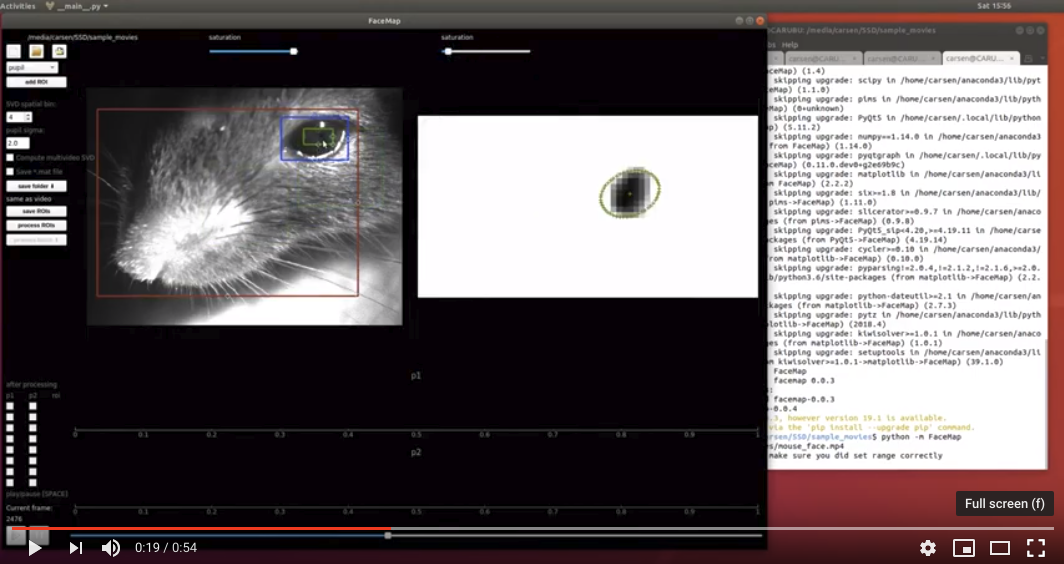
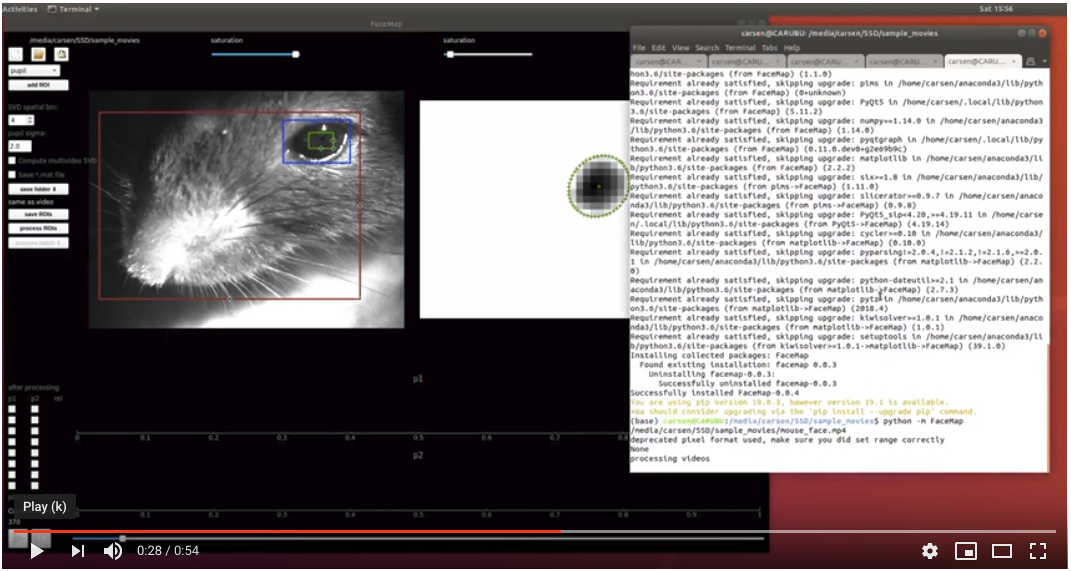
elliptical pupil + corneal reflection correction!

Changed region(s): [[0.0, 0.0, 1.0, 1.0], [0.093, 0.1809, 0.1861, 0.211]]

diff --git a/FaceMap/roi.py b/FaceMap/roi.py
@@ -14,6 +14,111 @@ from matplotlib import cm
 
 colors = np.array([[0,200,50],[180,0,50],[40,100,250],[150,50,150]])
 
+class reflectROI():
+    def __init__(self, iROI, wROI, moveable=True,
+                 parent=None, pos=None,
+                 yrange=None, xrange=None, ellipse=None):
+        # which ROI it belongs to
+        self.iROI = iROI
+        self.wROI = wROI # can have many reflections
+        self.color = (0.0,0.0,0.0)
+        self.moveable = moveable
+        if pos is None:
+            view = parent.pROI.viewRange()
+            imx = (view[0][1] + view[0][0]) / 2
+            imy = (view[1][1] + view[1][0]) / 2
+            dx = (view[0][1] - view[0][0]) / 4
+            dy = (view[1][1] - view[1][0]) / 4
+            dx = np.minimum(dx, parent.Ly[0]*0.4)
+            dy = np.minimum(dy, parent.Lx[0]*0.4)
+            imx = imx - dx / 2
+            imy = imy - dy / 2
+        else:
+            imy = pos[0]
+            imx = pos[1]
+            dy = pos[2]
+            dx = pos[3]
+            self.yrange=yrange
+            self.xrange=xrange
+            self.ellipse=ellipse
+        self.ivid = parent.ROIs[self.iROI].ivid
+        self.draw(parent, imy, imx, dy, dx)
+        self.ROI.sigRegionChangeFinished.connect(lambda: self.position(parent))
+        self.ROI.sigClicked.connect(lambda: self.position(parent))
+        self.ROI.sigRemoveRequested.connect(lambda: self.remove(parent))
+        #self.position(parent)
+
+    def draw(self, parent, imy, imx, dy, dx):
+        roipen = pg.mkPen(self.color, width=3,
+                          style=QtCore.Qt.SolidLine)
+        self.ROI = pg.EllipseROI(
+            [imx, imy], [dx, dy], movable = self.moveable,
+            pen=roipen, removable=self.moveable
+        )
+        self.ROI.handleSize = 8
+        self.ROI.handlePen = roipen
+        self.ROI.addScaleHandle([1, 0.5], [0., 0.5])
+        self.ROI.addScaleHandle([0.5, 0], [0.5, 1])
+        self.ROI.setAcceptedMouseButtons(QtCore.Qt.LeftButton)
+        parent.pROI.addItem(self.ROI)
+
+    def remove(self, parent):
+        parent.pROI.removeItem(self.ROI)
+        for i in range(len(parent.rROI[self.iROI])):
+            if i > self.wROI:
+                parent.rROI[i].wROI -= 1
+        del parent.rROI[self.iROI][self.wROI]
+        parent.win.show()
+        parent.show()
+
+    def position(self, parent):
+        parent.iROI = self.iROI
+        pos0 = self.ROI.getSceneHandlePositions()
+        pos = parent.pROI.mapSceneToView(pos0[0][1])
+        posy = pos.y()
+        posx = pos.x()
+        sizex, sizey = self.ROI.size()
+        xrange = (np.arange(-1 * int(sizex), 1) + int(posx)).astype(np.int32)
+        yrange = (np.arange(-1 * int(sizey), 1) + int(posy)).astype(np.int32)
+        yrange += int(sizey/2)
+        # what is ellipse circling?
+        br = self.ROI.boundingRect()
+        ellipse = np.zeros((yrange.size, xrange.size), np.bool)
+        x,y = np.meshgrid(np.arange(0,xrange.size,1), np.arange(0,yrange.size,1))
+        ellipse = ((y - br.center().y())**2 / (br.height()/2)**2 +
+                    (x - br.center().x())**2 / (br.width()/2)**2) <= 1
+
+        ellipse = ellipse[:,np.logical_and(xrange >= 0, xrange < parent.ROIs[self.iROI].xrange.size)]
+        xrange = xrange[np.logical_and(xrange >= 0, xrange < parent.ROIs[self.iROI].xrange.size)]
+        ellipse = ellipse[np.logical_and(yrange >= 0, yrange < parent.ROIs[self.iROI].yrange.size), :]
+        yrange = yrange[np.logical_and(yrange >= 0, yrange < parent.ROIs[self.iROI].yrange.size)]
+
+        # ellipse = lambda x,y: (((x+0.5)/(w/2.)-1)**2+ ((y+0.5)/(h/2.)-1)**2)**0.5 < 1, (w, h))
+        self.ellipse = ellipse
+        self.xrange = xrange
+        self.yrange = yrange
+
+        parent.reflectors[self.iROI] = get_reflector(parent.ROIs[self.iROI].yrange,
+                                                     parent.ROIs[self.iROI].xrange,
+                                                     parent.rROI[self.iROI])
+
+        parent.sl[1].setValue(parent.saturation[self.iROI] * 100 / 255)
+        parent.ROIs[self.iROI].plot(parent)
+
+def get_reflector(yrange, xrange, rROI):
+    reflectors = np.zeros((yrange.size, xrange.size), np.bool)
+    if len(rROI)>0:
+        for r in rROI:
+            ellipse, ryrange, rxrange = r.ellipse.copy(), r.yrange.copy(), r.xrange.copy()
+            ix = np.logical_and(rxrange >= 0, rxrange < xrange.size)
+            ellipse = ellipse[:,ix]
+            rxrange = rxrange[ix]
+            iy = np.logical_and(ryrange >= 0, ryrange < yrange.size)
+            ellipse = ellipse[iy,:]
+            ryrange = ryrange[iy]
+            reflectors[np.ix_(ryrange, rxrange)] = np.logical_or(reflectors[np.ix_(ryrange, rxrange)], ellipse)
+    return reflectors
+
 class sROI():
     def __init__(self, rind, rtype, iROI, moveable=True,
                  parent=None, saturation=None, color=None, pos=None,
@@ -64,10 +169,16 @@ class sROI():
     def draw(self, parent, imy, imx, dy, dx):
         roipen = pg.mkPen(self.color, width=3,
                           style=QtCore.Qt.SolidLine)
-        self.ROI = pg.RectROI(
-            [imx, imy], [dx, dy], movable = self.moveable,
-            pen=roipen, sideScalers=True, removable=self.moveable
-        )
+        if self.rind==1 or self.rind==3:
+            self.ROI = pg.RectROI(
+                [imx, imy], [dx, dy], movable = self.moveable,
+                pen=roipen, sideScalers=True, removable=self.moveable
+            )
+        else:
+            self.ROI = pg.EllipseROI(
+                [imx, imy], [dx, dy], movable = self.moveable,
+                pen=roipen, removable=self.moveable
+            )
         self.ROI.handleSize = 8
         self.ROI.handlePen = roipen
         self.ROI.addScaleHandle([1, 0.5], [0., 0.5])
@@ -76,7 +187,15 @@ class sROI():
         parent.p0.addItem(self.ROI)
 
     def position(self, parent):
-        parent.iROI = self.iROI
+        if parent.iROI != self.iROI:
+            if self.rind==0:
+                print('change to pupil')
+                for i in range(len(parent.rROI[self.iROI])):
+                    parent.pROI.addItem(parent.rROI[self.iROI][i].ROI)
+            elif parent.ROIs[parent.iROI].rind==0:
+                for i in range(len(parent.rROI[parent.iROI])):
+                    parent.pROI.removeItem(parent.rROI[parent.iROI][i].ROI)
+            parent.iROI = self.iROI
         pos0 = self.ROI.getSceneHandlePositions()
         pos = parent.p0.mapSceneToView(pos0[0][1])
         posy = pos.y()
@@ -84,11 +203,21 @@ class sROI():
         sizex, sizey = self.ROI.size()
         xrange = (np.arange(-1 * int(sizex), 1) + int(posx)).astype(np.int32)
         yrange = (np.arange(-1 * int(sizey), 1) + int(posy)).astype(np.int32)
-        xrange = xrange[xrange >= 0]
-        xrange = xrange[xrange < parent.LX]
-        yrange = yrange[yrange >= 0]
-        yrange = yrange[yrange < parent.LY]
+        if self.rind==0 or self.rind==2:
+            yrange += int(sizey/2)
+        # what is ellipse circling?
+        br = self.ROI.boundingRect()
+        ellipse = np.zeros((yrange.size, xrange.size), np.bool)
+        x,y = np.meshgrid(np.arange(0,xrange.size,1), np.arange(0,yrange.size,1))
+        ellipse = ((y - br.center().y())**2 / (br.height()/2)**2 +
+                    (x - br.center().x())**2 / (br.width()/2)**2) <= 1
 
+        ellipse = ellipse[:,np.logical_and(xrange >= 0, xrange < parent.LX)]
+        xrange = xrange[np.logical_and(xrange >= 0, xrange < parent.LX)]
+        ellipse = ellipse[np.logical_and(yrange >= 0, yrange < parent.LY), :]
+        yrange = yrange[np.logical_and(yrange >= 0, yrange < parent.LY)]
+
+        # ellipse = lambda x,y: (((x+0.5)/(w/2.)-1)**2+ ((y+0.5)/(h/2.)-1)**2)**0.5 < 1, (w, h))
         # which movie is this ROI in?
         vvals = parent.vmap[np.ix_(yrange, xrange)]
         ivid = np.zeros((len(parent.Ly),))
@@ -96,10 +225,13 @@ class sROI():
             ivid[i] = (vvals==i).sum()
         ivid = np.argmax(ivid)
         # crop yrange and xrange
-        xrange = xrange[xrange>=parent.sx[ivid]]
-        xrange = xrange[xrange<parent.sx[ivid]+parent.Lx[ivid]]
-        yrange = yrange[yrange>=parent.sy[ivid]]
-        yrange = yrange[yrange<parent.sy[ivid]+parent.Ly[ivid]]
+        ix = np.logical_and(xrange>=parent.sx[ivid], xrange<parent.sx[ivid]+parent.Lx[ivid])
+        ellipse = ellipse[:, ix]
+        xrange = xrange[ix]
+        iy = np.logical_and(yrange>=parent.sy[ivid], yrange<parent.sy[ivid]+parent.Ly[ivid])
+        yrange = yrange[iy]
+        ellipse = ellipse[iy, :]
+        self.ellipse = ellipse
 
         xrange -= parent.sx[ivid]
         yrange -= parent.sy[ivid]
@@ -107,6 +239,14 @@ class sROI():
         self.yrange = yrange
         self.ivid   = ivid
 
+        if self.rind==0:
+            #ifr = np.array(parent.video[0][ivid][:50])
+            #ifr = ifr.mean(axis=-1)
+            #self.rmin = ifr[np.ix_(np.arange(0,ifr.shape[0],1,int), self.yrange, self.xrange)].min()
+            self.rmin = 0
+            parent.reflectors[self.iROI] = get_reflector(parent.ROIs[self.iROI].yrange,
+                                                         parent.ROIs[self.iROI].xrange,
+                                                         parent.rROI[self.iROI])
         parent.sl[1].setValue(parent.saturation[self.iROI] * 100 / 255)
         self.plot(parent)
 
@@ -118,6 +258,7 @@ class sROI():
                 parent.saturation[i] = parent.saturation[i-1]
         del parent.ROIs[self.iROI]
         del parent.saturation[self.iROI]
+        del parent.rROI[self.iROI]
         if parent.iROI>=len(parent.ROIs):
             parent.iROI -= 1
         parent.iROI = max(0, parent.iROI)
@@ -137,16 +278,21 @@ class sROI():
         self.saturation = sat
 
         self.pupil_sigma = parent.pupil_sigma
-
+        #parent.pROI.addItem(pg.ScatterPlotItem([self.center[0]], [self.center[1]], pen='r', symbol='+'))
+        parent.reflector.setEnabled(False)
         if self.rind==0:
+            parent.reflector.setEnabled(True)
             img = img.mean(axis=-1)
-            try:
+            if 1:
                 # smooth in space
                 fr = gaussian_filter(img.astype(np.float32), 1)
-                fr -= fr.min()
+                fr -= self.rmin
+                fr[~self.ellipse] = 255.0
                 fr = 255.0 - fr
                 fr = np.maximum(0, fr - (255.0-sat))
-                mu, sig, xy = pupil.fit_gaussian(fr, parent.pupil_sigma, True)
+                missing=parent.reflectors[self.iROI].nonzero()
+                mu, sig, xy, immiss = pupil.fit_gaussian(fr.copy(), parent.pupil_sigma, True, missing=missing)
+                fr[missing[0], missing[1]] = immiss
                 xy = xy[xy[:,0]>=0, :]
                 xy = xy[xy[:,0]<self.yrange.size, :]
                 xy = xy[xy[:,1]>=0, :]
@@ -159,7 +305,8 @@ class sROI():
                 parent.pROI.addItem(parent.scatter)
                 parent.pROIimg.setImage(255-fr)
                 parent.pROIimg.setLevels([255-sat, 255])
-            except:
+            if 0:
+                print('error')
                 parent.pROI.removeItem(parent.scatter)
                 parent.scatter = pg.ScatterPlotItem([0], [0], pen='k', symbol='+')
                 parent.pROI.addItem(parent.scatter)

diff --git a/FaceMap/pupil.py b/FaceMap/pupil.py
@@ -1,12 +1,58 @@
 import numpy as np
 from scipy.ndimage import gaussian_filter1d
 
-def fit_gaussian(im, thres, do_xy):
+def fit_gaussian(im, thres, do_xy, missing=None):
     ''' iterative fitting of pupil with gaussian @ sigma=thres '''
     ix,iy = im.nonzero()
-    lam0 = im[ix, iy]
+    if missing is not None:
+        mx = missing[0]
+        my = missing[1]
+        miss = np.isin(ix*im.shape[1] + iy, mx*im.shape[1] + my)
+        miss = miss.flatten()
+    else:
+        miss = np.zeros((ix.size,), np.bool)
+    ix = ix[~miss].flatten()
+    iy = iy[~miss].flatten()
+    lam0 = im[ix,iy].copy()
+    immed0 = np.median(lam0)
     lam = lam0.copy()
+    ix0 = ix.copy()
+    iy0 = iy.copy()
+    lam /= lam.sum()
+    mu = [(lam*ix).sum(), (lam*iy).sum()]
+    xdist = ix - mu[0]
+    ydist = iy - mu[1]
+    xydist = np.concatenate((xdist[:,np.newaxis], ydist[:,np.newaxis]), axis=1)
+    xy = xydist * lam[:,np.newaxis]**0.5
+    sigxy = xy.T @ xy
     for k in range(5):
+        # fill in NaN's
+        dd = ((xydist @ np.linalg.inv(sigxy)) * xydist).sum(axis=1)
+        dd=dd.flatten()
+        glam = dd[:ix0.size] <= 2*thres**2
+        lam0[~glam] = 0
+        glam = dd[:ix0.size] <= thres**2
+        immed0 = np.median(lam0[glam])
+        lam = lam0.copy()
+        #print(immed0, mu, sigxy)
+
+        if missing is not None:
+            xdist = mx - mu[0]
+            ydist = my - mu[1]
+            mxy = np.concatenate((xdist[:,np.newaxis], ydist[:,np.newaxis]), axis=1)
+            dd = ((mxy @ np.linalg.inv(sigxy)) * mxy).sum(axis=1)
+            # within thres?
+            #im[mx,my] = np.exp(-dd) * 2 * immed0
+            ithr = dd <= 1.15 * thres**2
+            im[mx[ithr], my[ithr]] = immed0 * 1 #* np.exp(-dd[ithr]) / np.exp(-dd[ithr]).mean()
+            im[mx[~ithr], my[~ithr]] = 0
+            ix = np.concatenate((ix0,mx), axis=0)
+            iy = np.concatenate((iy0,my), axis=0)
+            lamm = np.zeros((mx.size,),np.float32)
+            lamm[ithr] = immed0 * 1.1
+            #lamm = np.exp(-dd / 2) * immed0
+            lam = np.concatenate((lam0, lamm), axis=0)
+
         lam /= lam.sum()
         mu = [(lam*ix).sum(), (lam*iy).sum()]
         xdist = ix - mu[0]
@@ -14,9 +60,7 @@ def fit_gaussian(im, thres, do_xy):
         xydist = np.concatenate((xdist[:,np.newaxis], ydist[:,np.newaxis]), axis=1)
         xy = xydist * lam[:,np.newaxis]**0.5
         sigxy = xy.T @ xy
-        lam = lam0.copy()
-        dd = ((xydist @ np.linalg.inv(sigxy)) * xydist).sum(axis=1)
-        lam[dd > 2*thres**2] = 0
+
     mu = np.array(mu)
 
     sv, u = np.linalg.eig(thres**2 * sigxy)
@@ -35,7 +79,7 @@ def fit_gaussian(im, thres, do_xy):
         xy += mu
     else:
         xy = []
-    return mu, sv, xy
+    return mu, sv, xy, im[mx,my]
 
 def process(img, saturation, pupil_sigma):
     ''' get pupil by fitting 2D gaussian
@@ -48,7 +92,7 @@ def process(img, saturation, pupil_sigma):
     # smooth in space by 1 pixel
     img = gaussian_filter1d(gaussian_filter1d(img, 1, axis=0), 1, axis=1)
 
-    img -= img.min(axis=1).min(axis=0)[np.newaxis, np.newaxis, :]
+    #img -= img.min(axis=1).min(axis=0)[np.newaxis, np.newaxis, :]
     img = 255.0 - img
     img = np.maximum(0, img - (255.0 - saturation))
     nframes = img.shape[-1]

diff --git a/FaceMap/gui.py b/FaceMap/gui.py
@@ -195,6 +195,13 @@ class MainW(QtGui.QMainWindow):
             qlabel.setStyleSheet('color: white;')
             self.l0.addWidget(qlabel,0,6+5*j,1,1)
 
+        self.reflector = QtGui.QPushButton('add corneal reflection')
+        self.l0.addWidget(self.reflector, 1, 8+5*j, 1, 2)
+        self.reflector.setEnabled(False)
+        self.reflector.clicked.connect(self.add_reflectROI)
+        self.rROI=[]
+        self.reflectors=[]
+
         self.p1 = self.win.addPlot(name='plot1',row=1,col=0,colspan=2, title='p1')
         self.p1.setMouseEnabled(x=True,y=False)
         self.p1.setMenuEnabled(False)
@@ -432,6 +439,7 @@ class MainW(QtGui.QMainWindow):
         self.show()
         self.processed = False
         #self.load_movies([["/media/carsen/DATA2/grive/sample_movies/2016-09-29_11_M160907_MP028_eye.mj2"]])
+        self.load_movies([["/home/carsen/Downloads/2017-08-04_1_M170714_MP032_eye.mj2"]])
         #self.openProc("/media/carsen/DATA1/2016-09-29_11_M160907_MP028_eye_proc.npy")
         #self.openFile(["D:/cams5/mouse_face.mp4"])
         # if not a combined recording, automatically open binary
@@ -441,13 +449,22 @@ class MainW(QtGui.QMainWindow):
         if len(self.ROIs) > 0:
             self.ROIs[self.iROI].plot(self)
 
+    def add_reflectROI(self):
+        self.rROI[self.iROI].append(roi.reflectROI(iROI=self.iROI, wROI=len(self.rROI[self.iROI]), moveable=True, parent=self))
+
     def add_ROI(self):
         roitype = self.comboBox.currentIndex()
         roistr = self.comboBox.currentText()
         if roitype > 0:
             self.saturation.append(255.)
+            if len(self.ROIs)>0:
+                if self.ROIs[self.iROI].rind==0:
+                    for i in range(len(self.rROI[self.iROI])):
+                        self.pROI.removeItem(self.rROI[self.iROI][i].ROI)
             self.iROI = self.nROIs
             self.ROIs.append(roi.sROI(rind=roitype-1, rtype=roistr, iROI=self.nROIs, moveable=True, parent=self))
+            self.rROI.append([])
+            self.reflectors.append([])
             self.nROIs += 1
             self.ROIs[-1].position(self)
         else:
